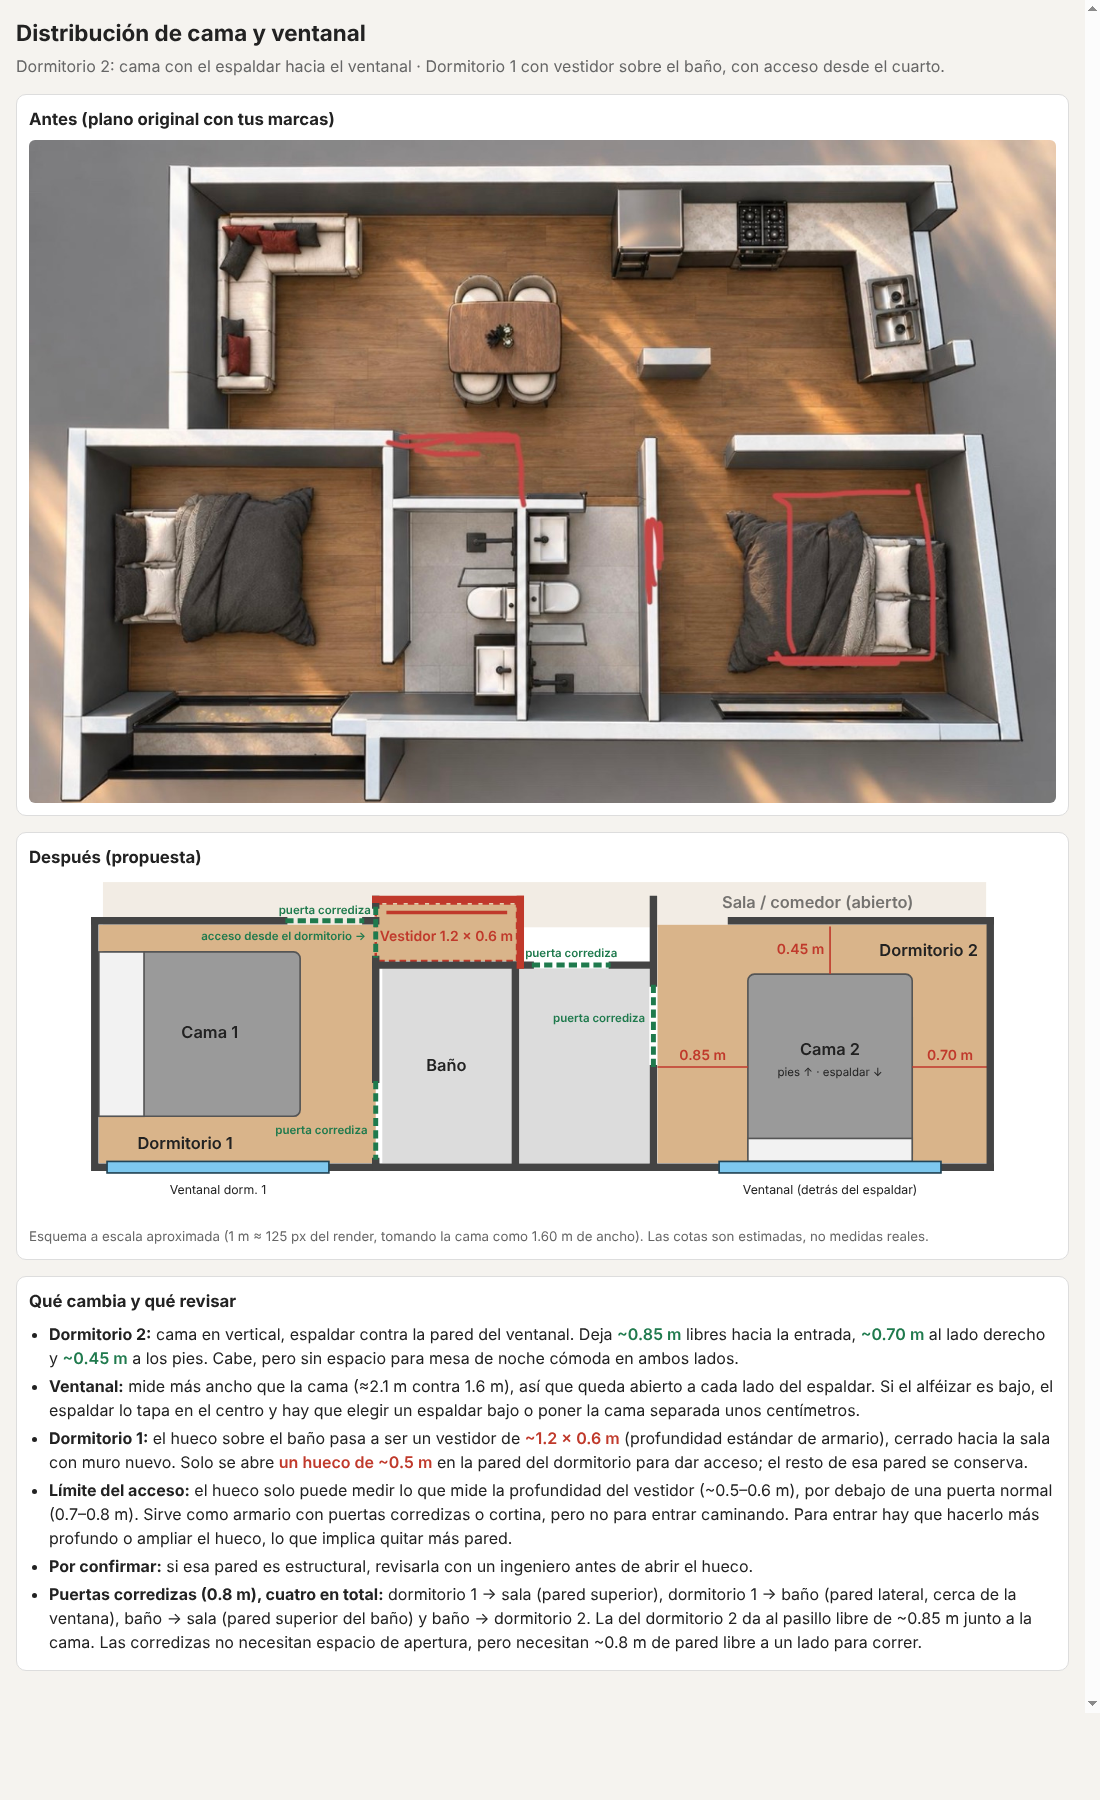
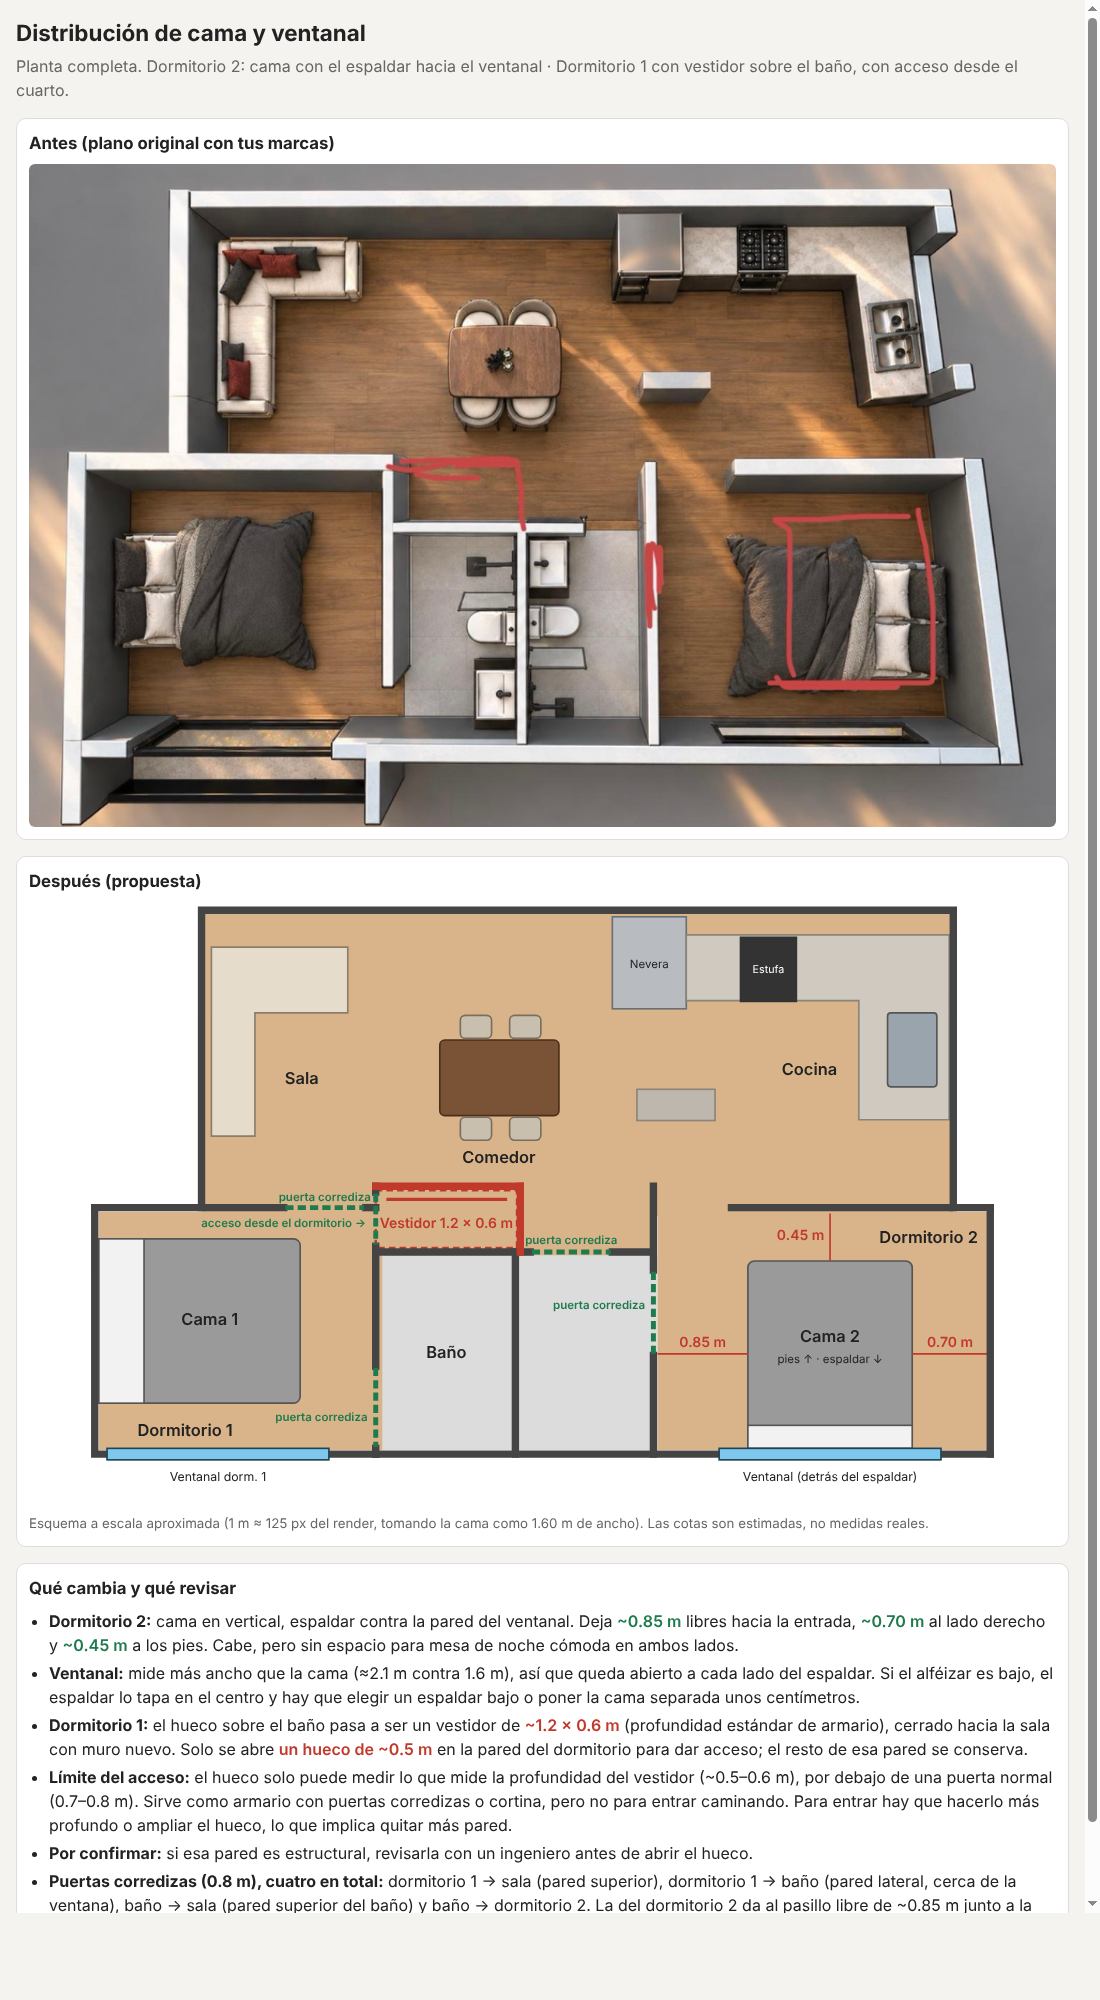
Extender el esquema a la planta completa (sala, comedor y cocina)
Claude-Session: https://claude.ai/code/session_01FjBeNf4WjH2KP9gBJAno4x

diff --git a/index.html b/index.html
@@ -40,7 +40,7 @@
 <body>
 <main>
   <h1>Distribución de cama y ventanal</h1>
-  <p class="sub">Dormitorio 2: cama con el espaldar hacia el ventanal · Dormitorio 1 con vestidor sobre el baño, con acceso desde el cuarto.</p>
+  <p class="sub">Planta completa. Dormitorio 2: cama con el espaldar hacia el ventanal · Dormitorio 1 con vestidor sobre el baño, con acceso desde el cuarto.</p>
 
   <section class="card">
     <h2>Antes (plano original con tus marcas)</h2>
@@ -49,13 +49,32 @@
 
   <section class="card">
     <h2>Después (propuesta)</h2>
-    <svg viewBox="40 360 1250 420" role="img" aria-label="Propuesta de distribución de dormitorios 1 y 2">
+    <svg viewBox="40 40 1250 740" role="img" aria-label="Propuesta de distribución de dormitorios 1 y 2">
       <!-- Sala/comedor (zona abierta, referencia) -->
-      <rect x="130" y="365" width="1075" height="55" fill="var(--living)" opacity=".7"/>
-      <text x="1000" y="397" text-anchor="middle" class="lbl" opacity=".6">Sala / comedor (abierto)</text>
+      <rect x="252" y="54" width="913" height="368" fill="var(--floor)"/>
+      <rect x="462" y="410" width="338" height="64" fill="var(--floor)"/>
+      <!-- Sala: sofá en L -->
+      <path d="M262 95 H428 V175 H315 V325 H262 Z" fill="#e6dccb" stroke="#8a7d6a" stroke-width="2"/>
+      <text x="372" y="262" text-anchor="middle" class="lbl">Sala</text>
+      <!-- Comedor -->
+      <rect x="540" y="208" width="145" height="92" rx="6" fill="#7a5236" stroke="#4a2f1a" stroke-width="2"/>
+      <rect x="565" y="178" width="38" height="28" rx="6" fill="#c9bfae" stroke="#7a6f5e" stroke-width="2"/>
+      <rect x="625" y="178" width="38" height="28" rx="6" fill="#c9bfae" stroke="#7a6f5e" stroke-width="2"/>
+      <rect x="565" y="302" width="38" height="28" rx="6" fill="#c9bfae" stroke="#7a6f5e" stroke-width="2"/>
+      <rect x="625" y="302" width="38" height="28" rx="6" fill="#c9bfae" stroke="#7a6f5e" stroke-width="2"/>
+      <text x="612" y="358" text-anchor="middle" class="lbl">Comedor</text>
+      <!-- Cocina -->
+      <rect x="750" y="58" width="90" height="112" fill="#b8bcc0" stroke="#6b7076" stroke-width="2"/>
+      <text x="795" y="120" text-anchor="middle" font-size="14">Nevera</text>
+      <path d="M840 80 H1160 V305 H1050 V160 H840 Z" fill="#cfc9bf" stroke="#8a847a" stroke-width="2"/>
+      <rect x="905" y="82" width="70" height="80" fill="#333"/>
+      <text x="940" y="127" text-anchor="middle" font-size="13" style="fill:#fff">Estufa</text>
+      <rect x="1085" y="175" width="60" height="90" rx="4" fill="#9aa4ad" stroke="#555" stroke-width="2"/>
+      <rect x="780" y="268" width="95" height="38" fill="#bdb7ad" stroke="#8a847a" stroke-width="2"/>
+      <text x="990" y="250" text-anchor="middle" class="lbl">Cocina</text>
 
       <!-- Dormitorio 1 -->
-      <rect x="125" y="417" width="337" height="290" fill="var(--floor)"/>
+      <rect x="125" y="417" width="347" height="290" fill="var(--floor)"/>
       <!-- Vestidor (nuevo) -->
       <rect x="462" y="391" width="172" height="70" fill="var(--floor)"/>
       <rect x="462" y="391" width="172" height="70" fill="none" stroke="var(--new)" stroke-width="3" stroke-dasharray="8 5"/>
@@ -69,7 +88,7 @@
       <text x="230" y="690" text-anchor="middle" class="lbl">Dormitorio 1</text>
 
       <!-- Baño -->
-      <rect x="470" y="470" width="325" height="237" fill="var(--bath)"/>
+      <rect x="470" y="470" width="335" height="237" fill="var(--bath)"/>
       <text x="548" y="595" text-anchor="middle" class="lbl">Baño</text>
 
       <!-- Dormitorio 2 -->
@@ -93,6 +112,7 @@
 
       <!-- Paredes (esquema) -->
       <g class="wall">
+        <polyline points="250,412 250,50 1165,50 1165,412"/>
         <!-- dormitorio 1: izquierda, arriba, abajo -->
         <polyline points="120,412 120,712 462,712"/>
         <line x1="120" y1="412" x2="350" y2="412"/>
